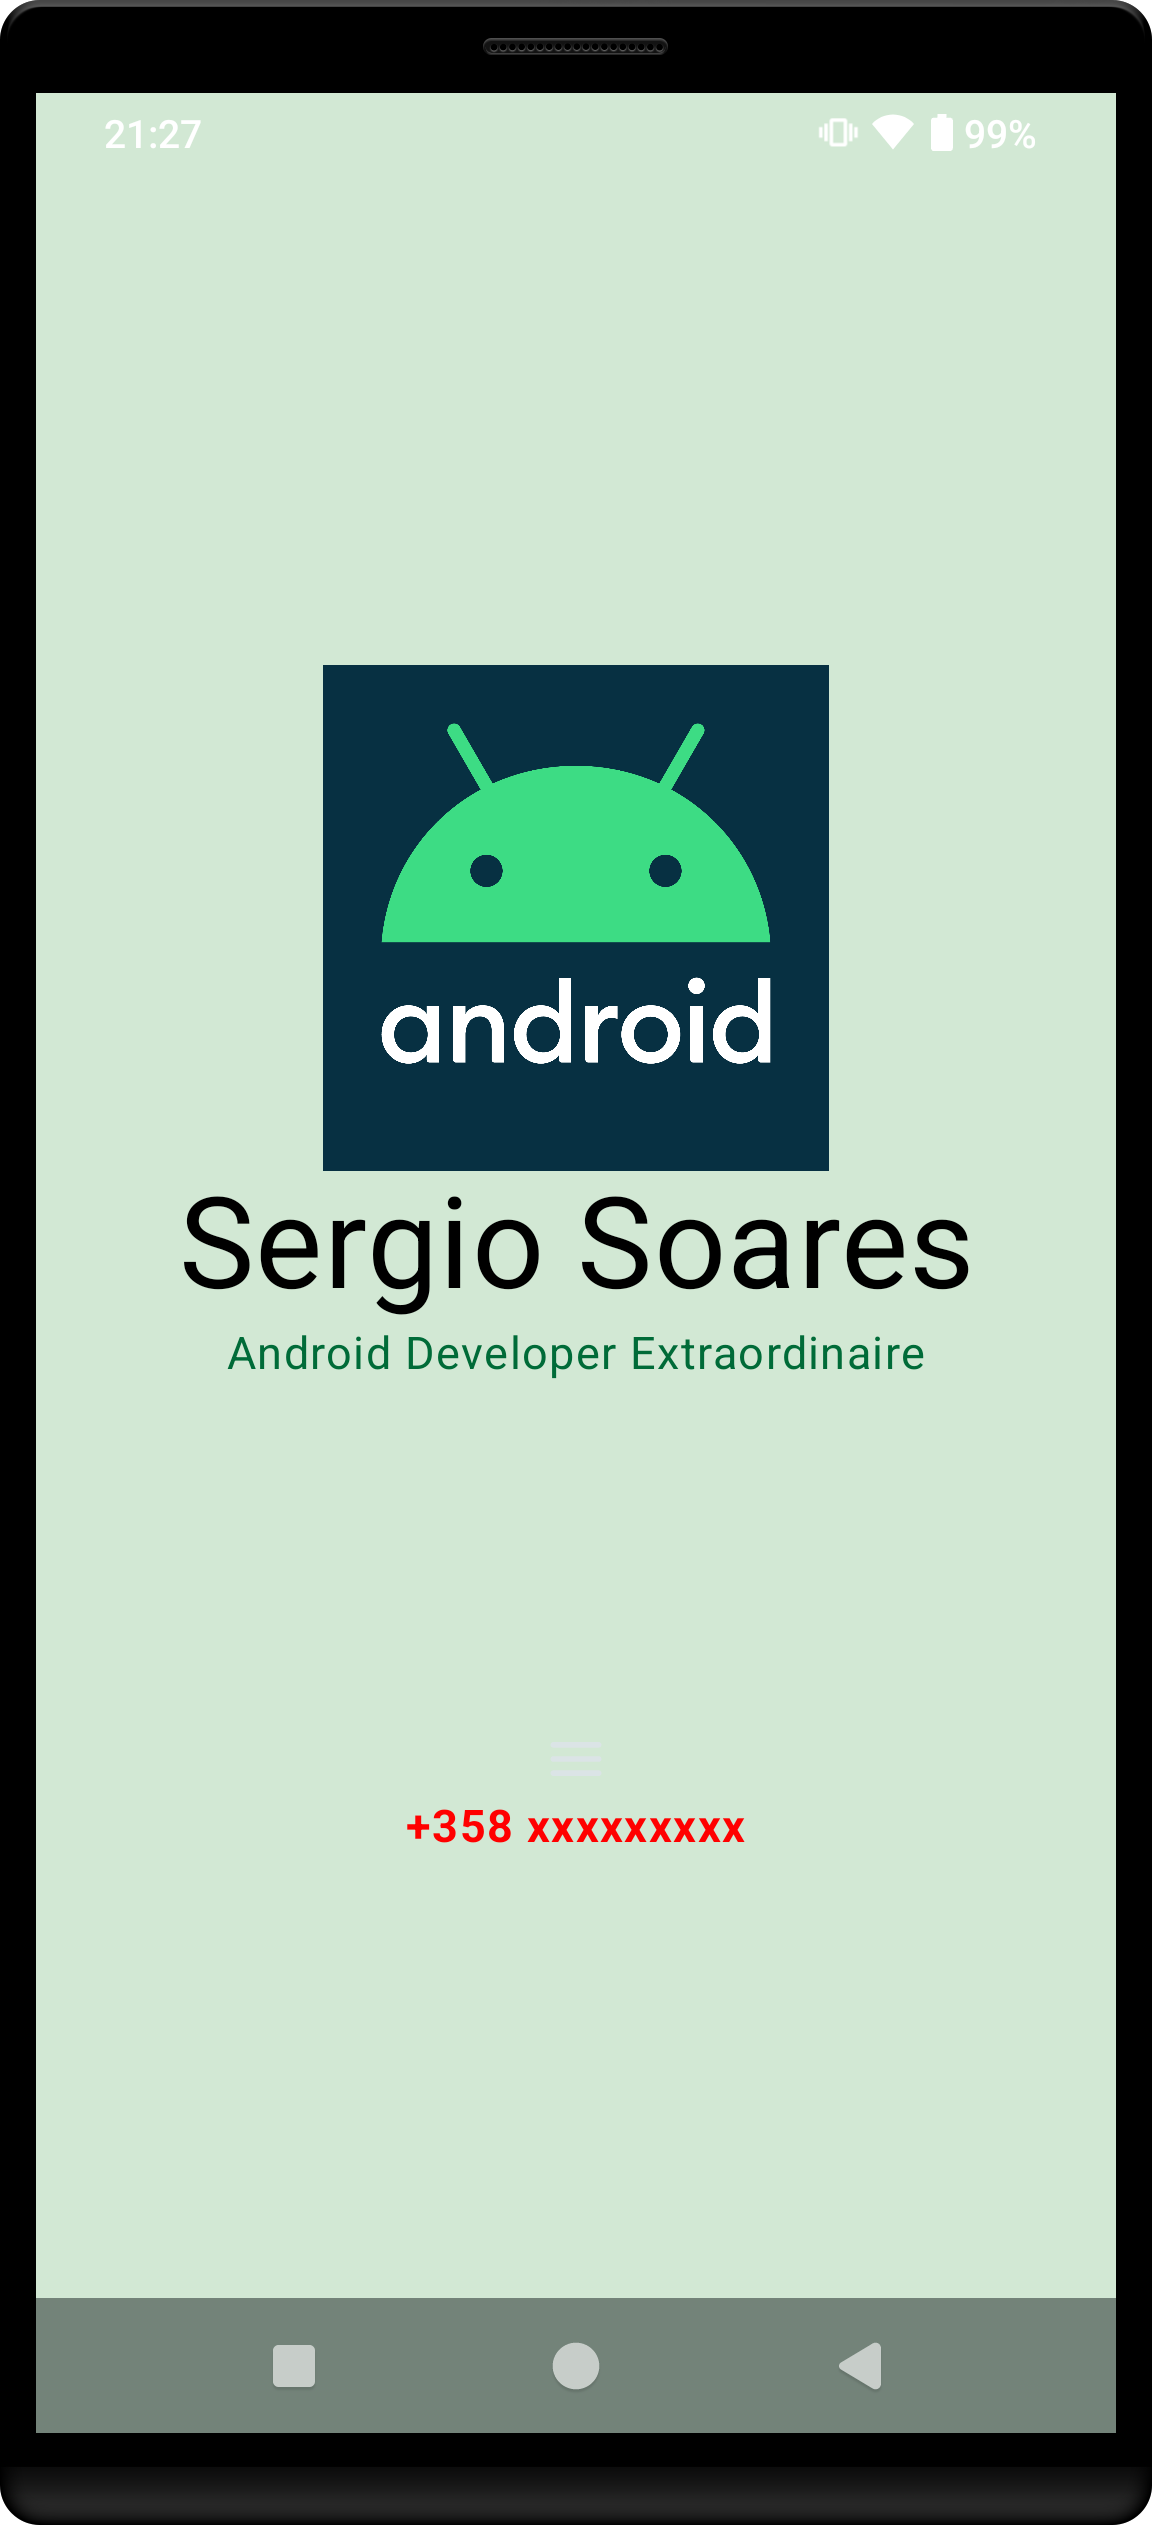
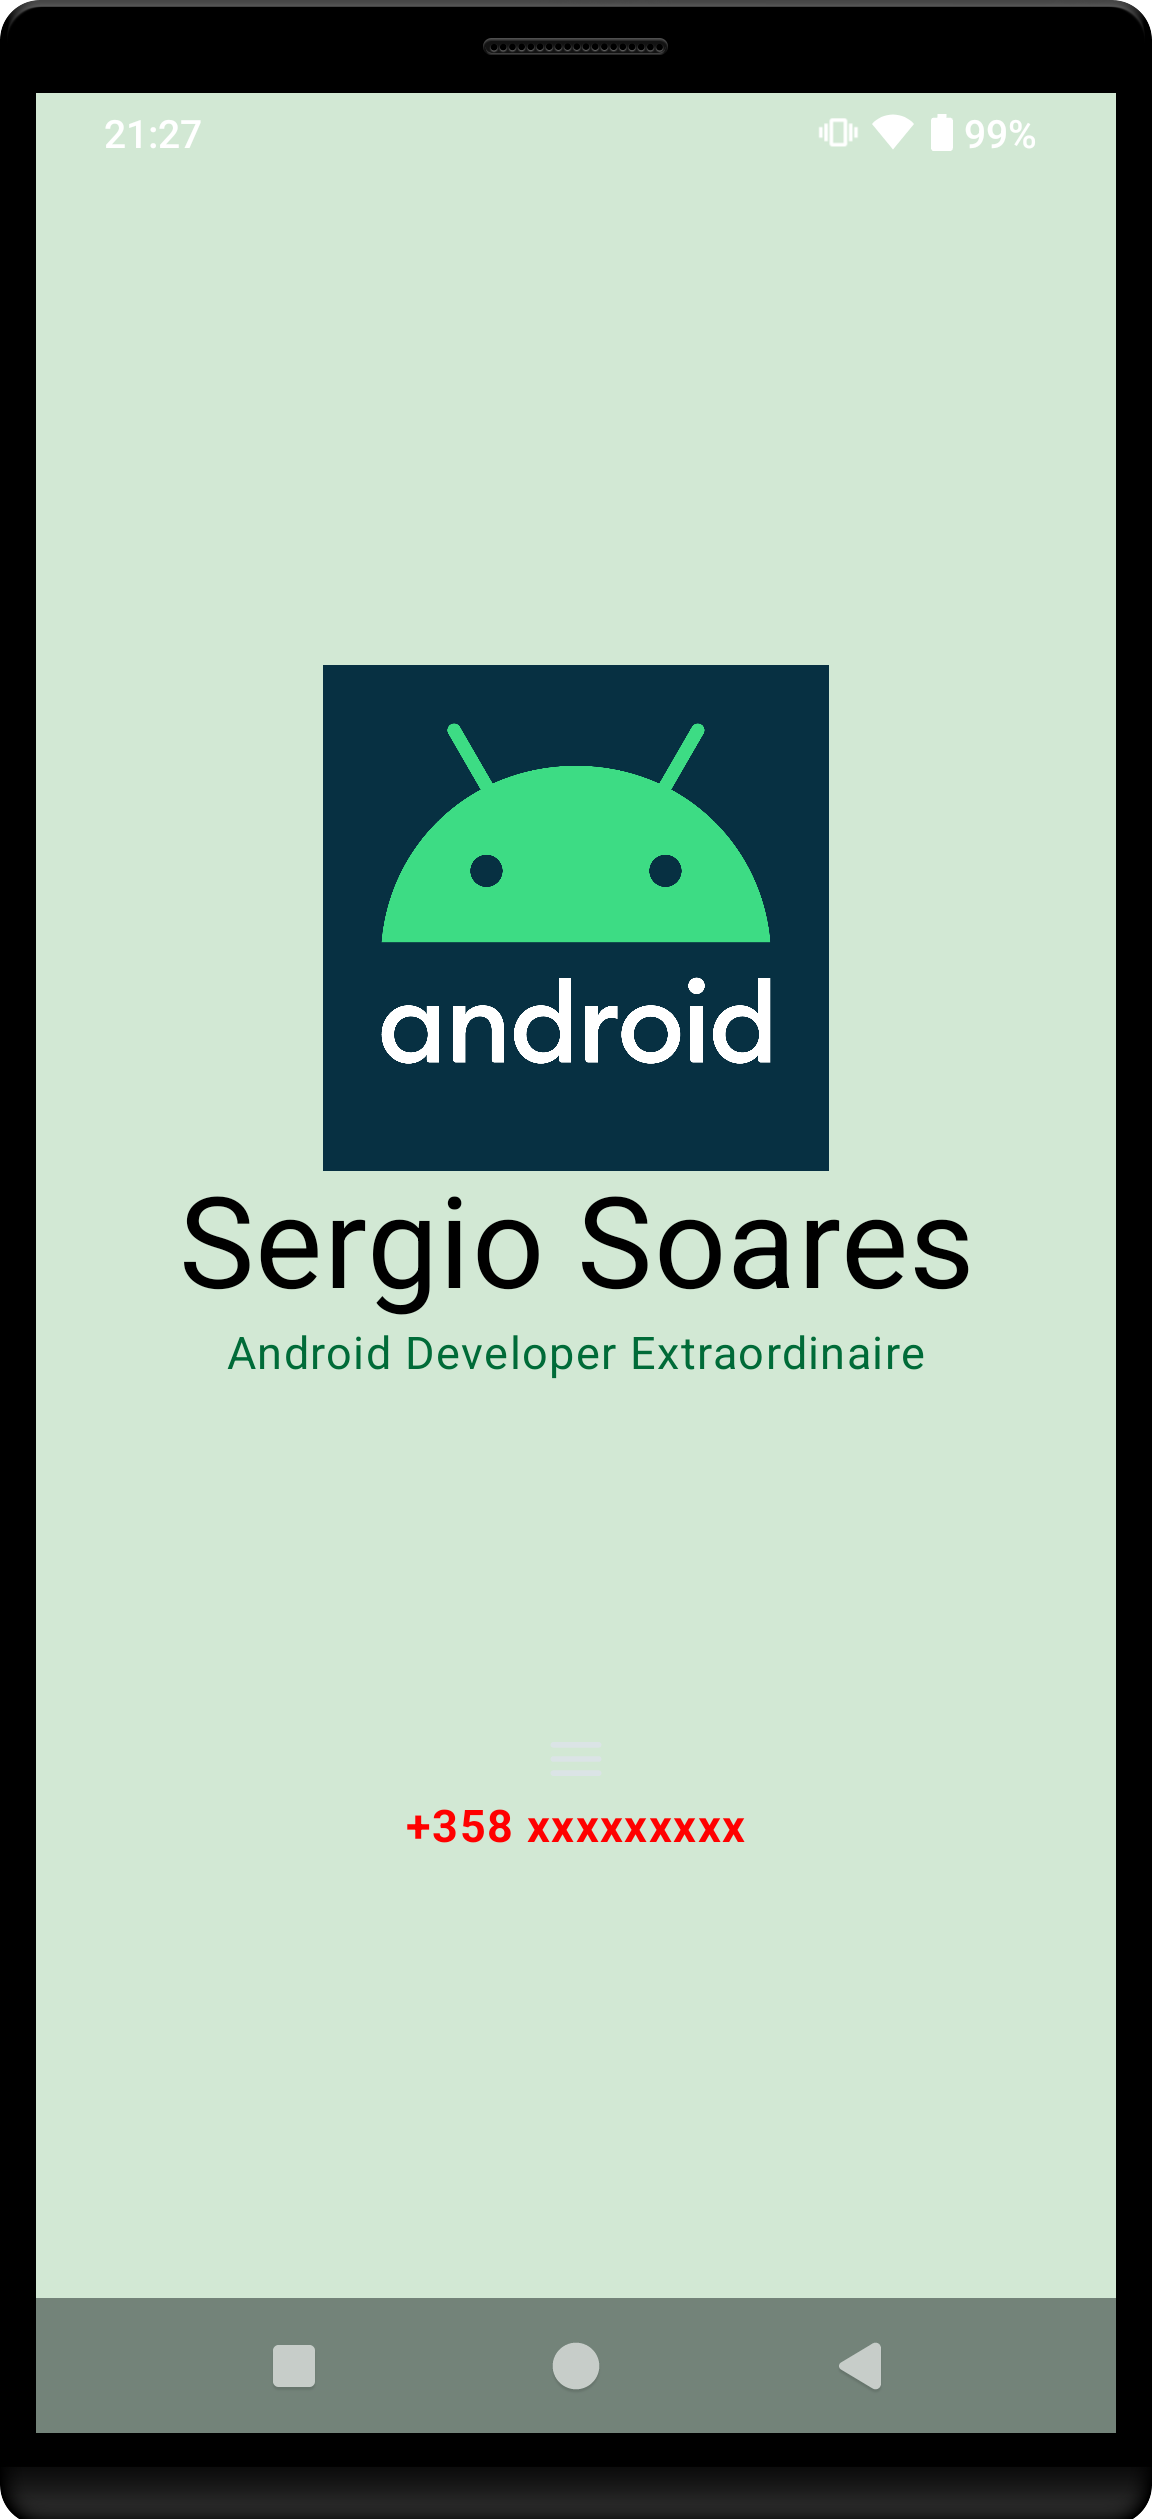
Add files

diff --git a/business_card/app/src/main/java/com/soarespt/businesscard/MainActivity.kt b/business_card/app/src/main/java/com/soarespt/businesscard/MainActivity.kt
@@ -46,7 +46,7 @@ class MainActivity : ComponentActivity() {
                     BusinessCardTemplate(
                         name = "Sergio Soares",
                         textBelow = "Android Developer Extraordinaire",
-                        phoneNumber = "+358 xxxxxxxxx",
+                        phoneNumber = "+358 xxxxxxxxxx",
                         modifier = Modifier
                     )
                 }
